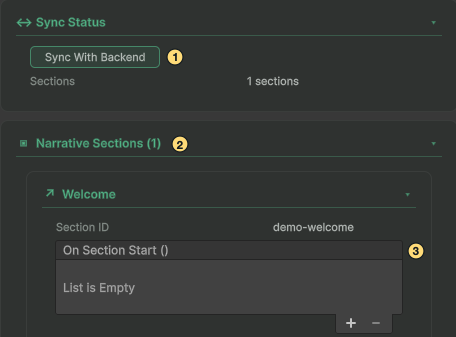
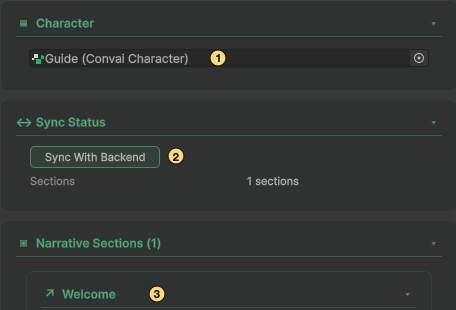
Refresh Unity inspectors and illustrate local actions and Vision diagnostics

diff --git a/plugins-and-integrations/convai-unity-sdk/features/vision/debug-preview.md b/plugins-and-integrations/convai-unity-sdk/features/vision/debug-preview.md
@@ -12,11 +12,7 @@ last_reviewed: "5.0.0-pre.1"
 
 On any scene GameObject, click **Add Component** → **Convai/Vision/Vision Debug Preview (Editor Only)**.
 
-The component auto-discovers the active frame source in the scene. No explicit assignment is required unless multiple frame sources are present.
-
-{% hint style="info" %}
-`VisionDebugPreview` discovers frame sources in priority order: same GameObject, children, parents, then scene-wide search. Assign the **Frame Source Component** field explicitly when multiple frame sources are present to avoid ambiguity.
-{% endhint %}
+Assign the scene camera’s frame source to **Frame Source Component** to preview it. With the field empty, the preview follows the source used by the active Vision publisher.
 
 ## Inspector reference
 
@@ -27,12 +23,11 @@ The component auto-discovers the active frame source in the scene. No explicit a
 | **Show Preview** | `bool` | `true`  | Enables the camera feed overlay.      |
 | **Show Stats** (under **Statistics**)   | `bool` | `true`  | Enables the capture statistics panel. |
 
-**Source fields** (no heading in the Inspector)
+**Frame source** (no heading in the Inspector)
 
 | Field                               | Type            | Default             | Description                                                                                                                                   |
 | ----------------------------------- | --------------- | ------------------- | --------------------------------------------------------------------------------------------------------------------------------------------- |
-| **Frame Source Component**          | `MonoBehaviour` | _(auto-discovered)_ | The frame source to preview. Leave blank to auto-discover.                                                                                    |
-| **Fallback To Active Frame Source** | `bool`          | `true`              | When the assigned source has no texture, searches the scene for another active frame source. Useful when the source starts after the preview. |
+| **Frame Source Component**          | `MonoBehaviour` | _(unassigned)_ | Assign an <code>IVisionFrameSource</code> component or leave the field blank to follow the publisher’s source.                                                                                    |
 
 **Overlay Layout**
 
@@ -43,7 +38,7 @@ The component auto-discovers the active frame source in the scene. No explicit a
 | **Offset X**         | `int` (0–200)     | `10`          | Horizontal inset from the selected corner in pixels.                                                                |
 | **Offset Y**         | `int` (0–200)     | `10`          | Vertical inset from the selected corner in pixels.                                                                  |
 
-<figure><img src="../../../../.gitbook/assets/unity-vision-debug-preview-inspector.png" alt="Vision Debug Preview Inspector with Frame Source Component, Overlay Layout, Aspect Ratio, Preview Settings and Statistics fields"><figcaption><p>The Vision Debug Preview Inspector with its default values.</p></figcaption></figure>
+<figure><img src="../../../../.gitbook/assets/unity-vision-debug-preview-inspector.png" alt="Vision Debug Preview with a Camera Vision Frame Source assigned and both Show Preview and Show Stats enabled."><figcaption><p>(1) Assign the camera source to <strong>Frame Source Component</strong>. (2) Enable <strong>Show Preview</strong> for the local image. (3) Enable <strong>Show Stats</strong> to see frame counts and capture speed.</p></figcaption></figure>
 
 **Aspect Ratio**
 
@@ -52,7 +47,7 @@ The component auto-discovers the active frame source in the scene. No explicit a
 | **Use Source Aspect Ratio** | `bool`        | `true`         | When enabled, derives aspect ratio from the frame source's `FrameDimensions`. When disabled, uses **Custom Aspect Ratio**. |
 | **Custom Aspect Ratio**     | `float` (1–3) | `1.778` (16:9) | Aspect ratio used when **Use Source Aspect Ratio** is disabled.                                                            |
 
-The two source fields come first with no heading, followed by **Overlay Layout**, **Aspect Ratio**, **Preview Settings**, then **Statistics**.
+The source field comes first with no heading, followed by **Overlay Layout**, **Aspect Ratio**, **Preview Settings**, then **Statistics**.
 
 ## Statistics overlay
 
@@ -75,7 +70,7 @@ Frames: 447
 | `FPS: X.X (target: Y)`        | Measured over 0.5 s intervals + `TargetFrameRate` | Measured FPS updates every 0.5 seconds.            |
 | `Frames: N`                   | `FrameCount`                                      | Cumulative total since capture started.            |
 
-<figure><img src="../../../../.gitbook/assets/unity-vision-debug-overlay.png" alt="Game view in Play Mode with the vision preview in the bottom-right corner and the statistics panel over it"><figcaption><p>The preview and statistics panel in the Game view. A long <code>Source</code> line is cut off at the panel edge.</p></figcaption></figure>
+<figure><img src="../../../../.gitbook/assets/unity-vision-debug-overlay.png" alt="Bottom-right corner of the running LipSync Sample, with the local scene camera image and capture statistics at 1280 by 720."><figcaption><p>(1) This is the local scene camera preview in the bottom-right corner of the Game view. (2) <strong>Status: Capturing</strong> means the source is producing frames. (3) <strong>Frames</strong> counts the frames received by this preview.</p></figcaption></figure>
 
 {% hint style="warning" %}
 **`IsCapturing` vs `IsPublishing`:** The statistics panel shows `IsCapturing` — whether the frame source is producing frames. This is distinct from `ConvaiVisionPublisher.IsPublishing`, which indicates whether a WebRTC video track is actively being sent to Convai. Both can be checked independently; a source may be capturing while publishing is paused or not yet started.

diff --git a/plugins-and-integrations/convai-unity-sdk/getting-started/add-lip-sync/validate-a-lip-sync-map.md b/plugins-and-integrations/convai-unity-sdk/getting-started/add-lip-sync/validate-a-lip-sync-map.md
@@ -26,7 +26,9 @@ Check **Lip Sync Component**, **Mapping Asset** and **Target Meshes**. When a co
 {% step %}
 ### Refresh and inspect results
 
-Choose **Refresh Validation**. The validator rescans the component, meshes and mapping. Use **Search blendshapes** and the result filters to find missing targets or disabled mappings. The result table shows the source, target names, multiplier and status.
+Choose **Recheck**. The validator rescans the component, meshes and mapping. Use **Search blendshapes** and **Show Only Problems** to find missing targets or disabled mappings. The result table shows the source, target names, multiplier and status.
+
+<figure><img src="../../../../.gitbook/assets/unity-lip-sync-validator.png" alt="Lip Sync Validator with Recheck, Show Only Problems and a Target Missing result for Mouth_Drop_Lower."><figcaption><p>Use <strong>Recheck</strong> (1) after changing the mapping. Enable <strong>Show Only Problems</strong> (2) to narrow the list. In this example, <strong>Target Missing</strong> (3) identifies the configured name that the mesh could not resolve.</p></figcaption></figure>
 
 Correct target names in the [mapping asset](create-a-custom-blendshape-map.md), then refresh. A source may map to several targets; check that this is intentional. No meshes assigned or no analysis performed is an incomplete check, not a passing result.
 {% endstep %}
@@ -39,7 +41,5 @@ Choose **Export Report** to save the validation results. Enter Play Mode and tes
 <figure><img src="../../../../.gitbook/assets/unity-lip-sync-live-mouth-shapes.png" alt="Three close-ups of the LipSync Sample character captured before, during, and after a live reply."><figcaption><p>Compare the mouth before the reply (1), while the character speaks (2), and after playback ends (3). To assess timing, watch the mouth while listening to the reply.</p></figcaption></figure>
 {% endstep %}
 {% endstepper %}
-
-<figure><img src="../../../../.gitbook/assets/unity-lip-sync-validator.png" alt="Lip Sync Mapping Validator with a sample character's Lip Sync Component, the CC4 Extended profile, its mapping asset, ten target meshes and validation results with OK, Multi and Disabled rows"><figcaption><p>Validation results for a sample character. Disabled rows are mappings switched off in the map asset, and Multi rows drive several targets.</p></figcaption></figure>
 
 If the face stays still despite valid target names, confirm that the session supplies the profile's expected facial data, the component is enabled and the correct renderers are assigned. See [Add lip sync](README.md) for playback and latency controls.

diff --git a/plugins-and-integrations/convai-unity-sdk/features/narrative-design/setting-up-the-narrative-design-manager.md b/plugins-and-integrations/convai-unity-sdk/features/narrative-design/setting-up-the-narrative-design-manager.md
@@ -20,13 +20,15 @@ Select the character GameObject and add **Convai > Narrative Design Manager**. T
 In **Sync Status**, click **Sync with Backend**. The button reads **Syncing...** while busy and is disabled without a character ID. The request respects the selected character reference. For a `ConvaiCharacter` with Live or a pinned release selected, that selection is preserved; the SDK reads the selected version through the Character API. A bare custom character reference may use the draft authoring read.
 
 Changing the assigned character triggers a sync. If another character ID replaces one with existing section bindings, **Character Change Detected** asks whether to clear them with **Yes, Clear and Switch**. Review those bindings before accepting.
+
+<figure><img src="../../../../.gitbook/assets/unity-narrative-manager.png" alt="Narrative Design Manager with Guide assigned, a Sync With Backend button, and the Welcome section in the list."><figcaption><p>(1) Assign the <strong>Character</strong>. (2) Use <strong>Sync With Backend</strong> to import its configured sections. (3) The section list shows the locally prepared <strong>Welcome</strong> example.</p></figcaption></figure>
 {% endstep %}
 {% step %}
 ### Add scene listeners
 
 Expand a section under **Narrative Sections (N)**. Its title uses the section name or ID. The entry exposes a disabled **Section ID**, **On Section Start**, and **On Section End**. Add a listener to a compatible public Unity Event method, such as your door controller's `Unlock()`.
 
-<figure><img src="../../../../.gitbook/assets/unity-narrative-manager.png" alt="Narrative Design Manager showing Sync With Backend, Narrative Sections, and the On Section Start event in a sample Welcome section."><figcaption><p>(1) <strong>Sync With Backend</strong> imports configured sections. (2) Expand the section under <strong>Narrative Sections</strong>. (3) Add an <strong>On Section Start</strong> listener. The Welcome section is a local example.</p></figcaption></figure>
+<figure><img src="../../../../.gitbook/assets/unity-narrative-section-start.png" alt="An expanded Welcome section with an empty On Section Start Unity Event and its plus button."><figcaption><p>(1) Find <strong>On Section Start</strong> in the expanded section. (2) Select <strong>+</strong> to add the listener.</p></figcaption></figure>
 {% endstep %}
 {% step %}
 ### Verify a real transition

diff --git a/plugins-and-integrations/convai-unity-sdk/features/scene-metadata/scene-auto-tagger.md b/plugins-and-integrations/convai-unity-sdk/features/scene-metadata/scene-auto-tagger.md
@@ -32,6 +32,8 @@ Enter **Scene description (optional)** and **Description focus (optional)**. **D
 
 Choose **Current Scene** or **Selected Objects** and **Fast** or **Accurate** quality. Accurate uses more image detail but does not guarantee identification. Use **Re-analyze tagged objects** when existing tags should be considered; manually authored metadata is protected during Apply.
 
+<figure><img src="../../../../.gitbook/assets/unity-scene-auto-tagger-setup.png" alt="Scene Auto Tagger Setup controls with Scope set to Current Scene and Quality set to Accurate."><figcaption><p>(1) <strong>Scope</strong> chooses which objects to consider. (2) <strong>Quality</strong> controls the image detail used for analysis.</p></figcaption></figure>
+
 Choose **Explore current scene** or **Explore selected objects**. Captures and context are sent to the configured service. Keep private scene content out of a test run unless you intend to send it.
 {% endstep %}
 {% step %}
@@ -68,8 +70,6 @@ Inspect the resulting World Objects and groups. Enter Play mode, address the int
 A new-room connect request includes the projected World Objects. A join without a roster and later replacements use a room data message limited to 15,360 bytes. Action targets also reach the character through the action-target sync. A sync over 12 KiB is split into actions, objects and characters updates. Each list must fit in one update, or nothing is sent; see [Check when a change reaches Convai](../character-actions/register-targets-from-code.md#check-when-a-change-reaches-convai). Apply warns when the action targets or the world objects pass three quarters of the 15,360-byte limit. Apply does not prove that the list reaches every room member or produces the intended reply.
 {% endstep %}
 {% endstepper %}
-
-<figure><img src="../../../../.gitbook/assets/unity-scene-auto-tagger-setup.png" alt="Scene Auto Tagger Setup tab with the character picker, scene description, description focus, Scope set to Current Scene, Quality set to Accurate, and the Vision ready status"><figcaption><p>Scene Auto Tagger Setup. The character cards are blurred because they show account characters.</p></figcaption></figure>
 
 ## Tag objects with a coding assistant
 

diff --git a/no-code-experiences/convai-xr-animation-capture-app/adding-your-recorded-animations-to-ai-avatars-inside-unity.md b/no-code-experiences/convai-xr-animation-capture-app/adding-your-recorded-animations-to-ai-avatars-inside-unity.md
@@ -38,10 +38,14 @@ See [Build an animation set](../../plugins-and-integrations/convai-unity-sdk/emb
 1. Use the imported clip in a state in the character's Animator Controller. Add an Animator Trigger parameter and a transition that enters the state when that trigger is set. If the clip should repeat, enable **Loop Time** on the clip.
 2. In the Actions Editor, add **Play Animator State**. In the executor's Inspector, add a binding from the action name to the Animator Trigger parameter.
 
+<figure><img src="../../.gitbook/assets/unity-xr-animator-trigger-binding.png" alt="Unity Animator Parameters shows a Wave Trigger beside the Play Animator State Inspector binding from action Play Wave to trigger Wave."><figcaption><p>(1) Add the <strong>Wave</strong> Trigger in the Animator Controller. In the executor binding, (2) set <strong>Action Name</strong> to <strong>Play Wave</strong> and (3) set <strong>Trigger Name</strong> to <strong>Wave</strong>. This locally tested example uses the SDK’s bundled wave animation.</p></figcaption></figure>
+
 See [Play Animator State](../../plugins-and-integrations/convai-unity-sdk/features/character-actions/action-executors.md#play-animator-state) for the binding fields.
 
 ## Verify the animation
 
 Enter Play mode. In the Actions Editor, select the action and open **Try It**. For **Play Gesture**, enter the Animation Set entry's name in **Values To Send**. Select **Run Now** and confirm that the character plays the recorded motion.
+
+<figure><img src="../../.gitbook/assets/unity-actions-try-gesture.png" alt="Actions Editor Try It card for Play Gesture showing wave entered in Values To Send, Run Now, and Done after the local run."><figcaption><p>(1) Enter the Animation Set’s <strong>wave</strong> gesture name. (2) Select <strong>Run Now</strong>. (3) <strong>Done</strong> reports completion. This local example uses the SDK’s bundled wave animation on Sofia.</p></figcaption></figure>
 
 After the local test passes, start a conversation and give the character a request that should trigger the action. Check that the same clip plays when the action runs.

diff --git a/plugins-and-integrations/convai-unity-sdk/getting-started/add-lip-sync/create-a-custom-blendshape-map.md b/plugins-and-integrations/convai-unity-sdk/getting-started/add-lip-sync/create-a-custom-blendshape-map.md
@@ -71,6 +71,8 @@ Use **Copy Mapping JSON** to export the current asset's mappings in this same fo
 
 **Other mapping actions:** **Initialize Defaults** clears all existing mappings and creates one enabled, passthrough entry per known source channel for the asset's **Target Profile** — each entry's **Target Name(s)** is set to the source channel's own name. **Clear All** removes every mapping entry. **Sort A-Z** reorders entries alphabetically by source channel. In **Mappings**, **+ Add Entry** adds a blank entry, and the search box filters source and target blendshape names.
 
+<figure><img src="../../../../.gitbook/assets/unity-lip-sync-map-entries.png" alt="Editable ARKit map filtered to the JawOpen row with its advanced mapping settings expanded."><figcaption><p>The example project copy maps the <strong>JawOpen</strong> source (1) to the named target (2). Use the row disclosure (3) to view its response curve and other overrides.</p></figcaption></figure>
+
 Each entry maps one source channel to one or more target names. Expand its **Per-blendshape overrides** for Response Curve, clamp, override-value, and global-modifier controls. The table names the full properties; the compact row abbreviates Multiplier and Offset as **Mult** and **Offs**.
 
 | Entry field                 | Default        | Description                                                               |
@@ -110,7 +112,6 @@ Enter Play Mode and speak to the character. All mapped blendshapes animate. Chec
 {% endstepper %}
 
 
-<figure><img src="../../../../.gitbook/assets/unity-lip-sync-map-entries.png" alt="Lip Sync Mapping entries with source names, target names, multipliers, offsets, and per-entry disclosure controls"><figcaption><p>Mappings in the shipped ARKit asset. Its controls are disabled because it is read-only; use your project-owned map for the steps below.</p></figcaption></figure>
 ## Usage examples
 
 ### Example 1: ARKit stream to a custom rig

diff --git a/plugins-and-integrations/convai-unity-sdk/features/group-conversation/quick-start.md b/plugins-and-integrations/convai-unity-sdk/features/group-conversation/quick-start.md
@@ -32,12 +32,14 @@ Fill **Scene Brief** with where the characters are, their relationship, and the 
 
 Use **Player Display Name** for how the group refers to the player. Set **Anchor** if the group's centre should be fixed to a scene transform; otherwise the character centre at session start is used.
 
-<figure><img src="../../../../.gitbook/assets/unity-group-conversation-inspector.png" alt="Group Conversation Inspector with a training-drill Scene Brief, one topic with Guide as Starter, and Guide and Engineer as members."><figcaption><p>(1) <strong>Scene Brief</strong> sets the situation. (2) <strong>Topics</strong> can assign a starter. (3) <strong>Members</strong> shows the two example characters.</p></figcaption></figure>
+<figure><img src="../../../../.gitbook/assets/unity-group-conversation-inspector.png" alt="Group Conversation Inspector showing a training-drill Scene Brief, safety-checklist topic, and Guide as Starter."><figcaption><p>(1) <strong>Scene Brief</strong> sets the situation. (2) <strong>Text</strong> tells the characters what to discuss. (3) <strong>Starter</strong> names the character who opens the topic.</p></figcaption></figure>
 {% endstep %}
 {% step %}
 ### Check input and validation
 
 Set the room's conversation input mode to **Push To Talk**. Resolve the Group Conversation Inspector warnings, including a missing scene brief, an invalid member count, and **Vision** being on. A Ready chip means the local checks passed, not that the service approved the account.
+
+<figure><img src="../../../../.gitbook/assets/unity-group-conversation-validation.png" alt="Group Conversation Inspector with a Ready status and a Members section listing Guide and Engineer."><figcaption><p>(1) <strong>Ready</strong> indicates that local checks passed. (2) <strong>Members</strong> lists the two example characters.</p></figcaption></figure>
 {% endstep %}
 {% step %}
 ### Rehearse offline

diff --git a/plugins-and-integrations/convai-unity-sdk/features/character-actions/actions-editor.md b/plugins-and-integrations/convai-unity-sdk/features/character-actions/actions-editor.md
@@ -84,6 +84,10 @@ The selected action's **Try It** box runs the real dispatch path with no backend
 * **In Edit mode**, enter a phrase in **Try A Target Name** and select **Check** to inspect the target-resolution result.
 * **In Play mode**, choose **Target**, fill **Values To Send**, and select **Run Now**. This runs local dispatch and reports the result and duration. The explicit test can bypass **Offer This Action** being disabled; that does not make the action available to normal incoming commands.
 
+<figure><img src="../../../../.gitbook/assets/unity-actions-try-it-completed.png" alt="The Actions Editor Try It card showing Notice Board as Target, hide as the mode, and Done after running Show Or Hide Object locally."><figcaption><p>(1) Choose the <strong>Notice Board</strong> target. (2) Set <strong>mode</strong> to <strong>hide</strong>. (3) <strong>Done</strong> reports the local result. <strong>Show In Timeline</strong> opens that run.</p></figcaption></figure>
+
+<figure><img src="../../../../.gitbook/assets/unity-actions-try-gesture.png" alt="Actions Editor Try It card for Play Gesture showing wave entered in Values To Send, Run Now, and Done after the local run."><figcaption><p>(1) Enter the Animation Set’s <strong>wave</strong> gesture name. (2) Select <strong>Run Now</strong>. (3) <strong>Done</strong> reports completion. This local example uses the SDK’s bundled wave animation on Sofia.</p></figcaption></figure>
+
 ## Author actions with a coding assistant
 
 Use `Convai_ConfigureActions` to preview supported authoring changes, then apply the reviewed changes in Edit mode. `Convai_DiagnoseActions` checks the selected character’s action setup without changing it. See the [Actions tools reference](../../ai-coding-assistant/mcp-tools-reference.md#character-actions) for inputs and returned findings.

diff --git a/plugins-and-integrations/convai-unity-sdk/features/scene-metadata/scene-auto-tagger-window-reference.md b/plugins-and-integrations/convai-unity-sdk/features/scene-metadata/scene-auto-tagger-window-reference.md
@@ -40,6 +40,8 @@ Open **Convai > Scene Auto Tagger** in Edit mode. This reference describes the r
 | Generate standing positions | Queries the existing NavMesh for best-effort approach points |
 | Back to setup | Discards the current review; already applied scene objects remain |
 
+<figure><img src="../../../../.gitbook/assets/unity-scene-auto-tagger-review.png" alt="Scene Auto Tagger Review row for Red Exhibit with an unchecked batch checkbox, a checked Include box, and Apply 1 in the footer."><figcaption><p>(1) The left checkbox selects the row for batch operations. (2) The right checkbox includes the object in Apply. (3) <strong>Apply 1</strong> shows one object is ready to apply in this local example.</p></figcaption></figure>
+
 Cancellation stops remaining work, but an in-flight native request must finish before cleanup completes. The window may wait for that request during cancellation or Editor shutdown.
 
 ## Settings
@@ -63,8 +65,6 @@ The grouping plan is retained after the first Apply. Generated movement position
 ## Apply outcomes
 
 Apply records an Undo step and marks scenes dirty without saving. It preserves manual metadata and edited owned companions. Changes to geometry, transforms, or materials since capture can make a result stale; capture again. Inspect the applied components before saving and verify runtime delivery separately.
-
-<figure><img src="../../../../.gitbook/assets/unity-scene-auto-tagger-review.png" alt="Scene Auto Tagger Review tab with one included object, its analysis image, the editable name and description, the row check box and include toggle, and Apply 1"><figcaption><p>Review after analyzing one test object. Nothing changes in the scene until Apply.</p></figcaption></figure>
 
 ## Failure handling
 

diff --git a/plugins-and-integrations/convai-unity-sdk/getting-started/add-lip-sync/profiles-and-mappings.md b/plugins-and-integrations/convai-unity-sdk/getting-started/add-lip-sync/profiles-and-mappings.md
@@ -9,7 +9,6 @@ last_reviewed: "5.0.0-pre.1"
 The lip sync system uses two kinds of data to describe how blendshape data flows from Convai to your character's mesh: **profiles** and **maps**. Choose a built-in profile for the incoming stream. Create a map if your mesh uses different blendshape names.
 
 
-<figure><img src="../../../../.gitbook/assets/unity-lip-sync-map.png" alt="Bundled ARKit lip-sync map with coverage, read-only notice, and configuration fields"><figcaption><p>The bundled ARKit map is read-only. Create a project copy before editing; the displayed values belong to this shipped map.</p></figcaption></figure>
 ## What is a profile?
 
 A **profile** defines the transport format — it tells the SDK which blendshape channel names to expect in the data stream from Convai. Choose its display name in the component's **Profile** popup. Profile ID identifies the local profile; the transport token is the format requested from Convai. They differ for MetaHuman.
@@ -26,6 +25,8 @@ The three bundled profiles are built into the SDK — there is no `.asset` file 
 
 
 ## What is a map?
+
+<figure><img src="../../../../.gitbook/assets/unity-lip-sync-map.png" alt="Bundled Lip Sync Map with ARKit as the target profile, full coverage of enabled mappings, and a Create A Project Copy button."><figcaption><p>The bundled map targets <strong>ARKit</strong> (1) and reports full coverage of its enabled mappings (2). Choose <strong>Create A Project Copy</strong> (3) to edit your own asset.</p></figcaption></figure>
 
 A **map** routes the source blendshape channels (from the profile) to the actual blendshape names on your character's `SkinnedMeshRenderer`. It also lets you apply per-channel multipliers, offsets, and clamps.
 

diff --git a/plugins-and-integrations/convai-unity-sdk/features/character-actions/debugging-and-troubleshooting.md b/plugins-and-integrations/convai-unity-sdk/features/character-actions/debugging-and-troubleshooting.md
@@ -32,6 +32,12 @@ This is not the complete finding set — the Troubleshooter also reports on targ
 
 In the Actions Editor, choose **Live** and inspect **Timeline** for step results or **Commands That Never Ran** for intake rejections. Enable the Actions log category when you need Console output. In code, subscribe to `ConvaiManager.Events.OnCharacterActionReceived` to observe accepted command batches, `ConvaiActionDispatcher.OnStepCompleted` to inspect the executor result, and `BatchEnded` to learn why the dispatcher ended the batch. See [Action runner and batch policies](dispatcher-and-batch-policies.md).
 
+<figure><img src="../../../../.gitbook/assets/unity-actions-live-timeline.png" alt="Live Timeline displaying a completed Show Or Hide Object step for Notice Board with a Try It badge and duration."><figcaption><p>(1) The <strong>Try It</strong> badge identifies a local test. (2) The step shows the action and target. (3) <strong>Duration</strong> records how long the step took.</p></figcaption></figure>
+
+After exiting Play mode, open **Session Review** to inspect the retained timeline. The next Play session clears the recording.
+
+<figure><img src="../../../../.gitbook/assets/unity-actions-session-review.png" alt="Session Review after Play Mode ends, showing the same completed Show Or Hide Object step for Notice Board."><figcaption><p>(1) Open <strong>Session Review</strong> after exiting Play mode. (2) The same <strong>Try It</strong> batch remains visible. (3) The completed step still shows its action and target.</p></figcaption></figure>
+
 ## Test actions from the Actions Editor
 
 `EditorWindow` — `Convai.Editor.Actions`

diff --git a/plugins-and-integrations/convai-unity-sdk/features/long-term-memory/configure-memory-for-a-character.md b/plugins-and-integrations/convai-unity-sdk/features/long-term-memory/configure-memory-for-a-character.md
@@ -10,8 +10,6 @@ Configure long-term memory in the **Memory** section of the `ConvaiCharacter` In
 Memory settings belong to the character on Convai, so changing them affects other applications that use it. A connection pinned to a character version keeps that version's memory enabled setting; the end-user ID requirement applies across versions. Use a test character when evaluating changes.
 {% endhint %}
 
-<figure><img src="../../../../.gitbook/assets/unity-character-memory.png" alt="Character Inspector Memory card with Long-Term Memory unchecked and Refresh and Manage Memories controls"><figcaption><p>The Memory card with memory disabled. Enable Long-Term Memory to reveal the end-user ID requirement.</p></figcaption></figure>
-
 ## Prerequisites
 
 - Install the Convai Unity SDK and [configure credentials](../../getting-started/configure-api-key.md) for an account that can manage the character.
@@ -32,6 +30,8 @@ Select the GameObject containing `ConvaiCharacter`, then expand **Memory**. Wait
 ### Set Long-Term Memory
 
 Change **Long-Term Memory** and confirm the dialog for the character you intend to edit. The change is saved through Convai; editing a scene asset alone does not configure character memory.
+
+<figure><img src="../../../../.gitbook/assets/unity-character-memory.png" alt="Memory controls on an example character with Long-Term Memory enabled."><figcaption><p>(1) Enable <strong>Long-Term Memory</strong> on the character you intend to configure. The example shows the enabled state.</p></figcaption></figure>
 {% endstep %}
 {% step %}
 ### Check the end-user requirement
